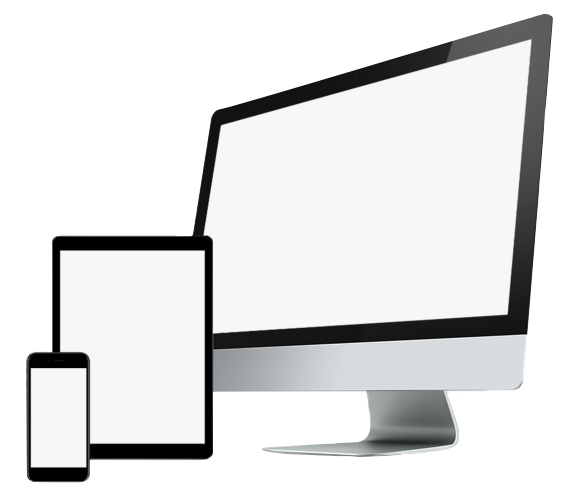
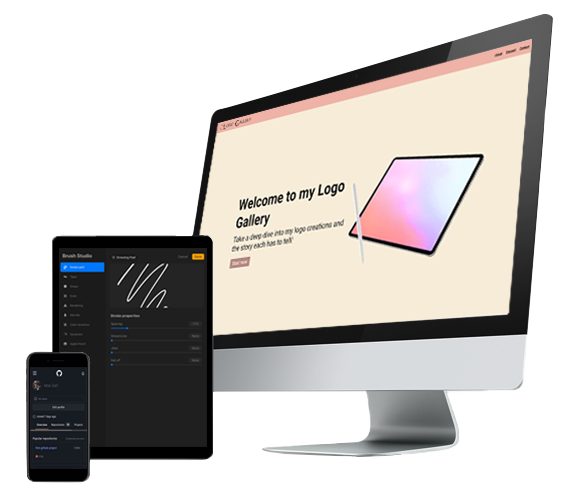
bulk commit

diff --git a/index.html b/index.html
@@ -13,7 +13,6 @@
         <img src="/assets/logo gallery.png" class="logo" alt="" />
         <ul>
           <li><a href="#about">About</a></li>
-          <li><a href="#discord">Discord</a></li>
           <li><a href="#contact">Contact</a></li>
         </ul>
       </nav>
@@ -36,27 +35,30 @@
     <main>
       <section id="about">
         <h2>About</h2>
-        <div>
-          <p>
-            This website was created with the purpose of showcasing my logo
-            creations which were developed for both university projects as well
-            as other personal projects.
-          </p>
-          <p>
-            Although logo creation is a personal hobby of mine, these logos have
-            been and are currently being used to represent specific businesses
-            or communities. Each logo has its own unique story to tell so feel
-            free to observe!
-          </p>
+        <div class="layout">
+          <div class="about-wrapper">
+            <p class="about-p">
+              This website was created with the purpose of showcasing my logo
+              creations which were developed for both university projects as
+              well as other personal projects.
+            </p>
+            <p class="about-p">
+              Although logo creation is a personal hobby of mine, these logos
+              have been and are currently being used for personal projects,
+              businesses and communities. Each logo has its own unique story to
+              tell, so feel free to observe!
+            </p>
+          </div>
+          <figure class="about-img-wrapper">
+            <img src="/assets/about.jpg" alt="" />
+          </figure>
         </div>
-        <figure>
-          <img src="/assets/about.jpg" alt="" />
-        </figure>
       </section>
-      <section id="discord">
-        <h2>Discord</h2>
+      <section id="Exhibit-A">
+        <h2>Exhibit A</h2>
+        <div class="layout">
         <figure>
-          <img src="/assets/discord.png" alt="" />
+          <img src="/assets/xpedition logo polygonal frame.png" alt="" />
         </figure>
         <div>
           <p>
@@ -72,7 +74,52 @@
             quibusdam ipsum saepe.
           </p>
         </div>
+      </div>
       </section>
+      <section id="Exhibit-B">
+        <h2>Exhibit B</h2>
+        <div class="layout">
+        <figure>
+          <img src="/assets/prioritask polygonal frame.png" alt="" />
+        </figure>
+        <div>
+          <p>
+            Lorem ipsum dolor sit amet consectetur adipisicing elit. Illo porro,
+            dolorem nobis minima incidunt totam consequuntur fugit aliquid
+            veritatis minus, nemo recusandae eligendi maxime quia! Beatae labore
+            quibusdam ipsum saepe.
+          </p>
+          <p>
+            Lorem ipsum dolor sit amet consectetur adipisicing elit. Illo porro,
+            dolorem nobis minima incidunt totam consequuntur fugit aliquid
+            veritatis minus, nemo recusandae eligendi maxime quia! Beatae labore
+            quibusdam ipsum saepe.
+          </p>
+        </div>
+      </div>
+      </section>
+      <section id="Exhibit-C">
+        <h2>Exhibit C</h2>
+        <div class="layout">
+        <div>
+          <p>
+            Lorem ipsum dolor sit amet consectetur adipisicing elit. Illo porro,
+            dolorem nobis minima incidunt totam consequuntur fugit aliquid
+            veritatis minus, nemo recusandae eligendi maxime quia! Beatae labore
+            quibusdam ipsum saepe.
+          </p>
+          <p>
+            Lorem ipsum dolor sit amet consectetur adipisicing elit. Illo porro,
+            dolorem nobis minima incidunt totam consequuntur fugit aliquid
+            veritatis minus, nemo recusandae eligendi maxime quia! Beatae labore
+            quibusdam ipsum saepe.
+          </p>
+        </div>
+        <figure>
+          <img src="/assets/uts business logo polygonal frame.png" alt="" />
+        </figure>
+      </section>
+    </div>
       <section id="contact">
         <h2>Contact</h2>
         <form action="">
@@ -91,7 +138,6 @@
       <img src="/assets/logo gallery.png" alt="" />
       <ul>
         <li><a href="#about">About</a></li>
-        <li><a href="#discord">Discord</a></li>
         <li><a href="#contact">Contact</a></li>
         <li><a href="">Courses</a></li>
       </ul>

diff --git a/styles.css b/styles.css
@@ -68,5 +68,43 @@ button:hover{
     align-items: center;
 }
 #about{
-   
+   padding: 48px;
+   background-color:rgb(244, 222, 255);
+}
+h2{
+    text-align: center;
+    font-size: 60px;
+    margin-bottom: 24px;
+}
+.layout{
+    display: flex;
+    justify-content: center;
+    align-items: center;
+}
+.about-img-wrapper{
+    width: 40%;
+}
+img{
+    width: 100%;
+}
+.about-wrapper{
+    width: 60%;
+    padding: 0 24px;
+}
+.about-p {
+    font-size: 24px;
+    line-height: 1.5;
+    margin-bottom: 24px;
+}
+#Exhibit-A{
+    padding: 48px;
+    background-color: rgb(252, 165, 203);
+}
+#Exhibit-B{
+    padding: 48px;
+    background-color: rgb(168, 245, 195);
+}
+#Exhibit-C{
+    padding: 48px;
+    background-color: rgb(174, 237, 255);
 }
